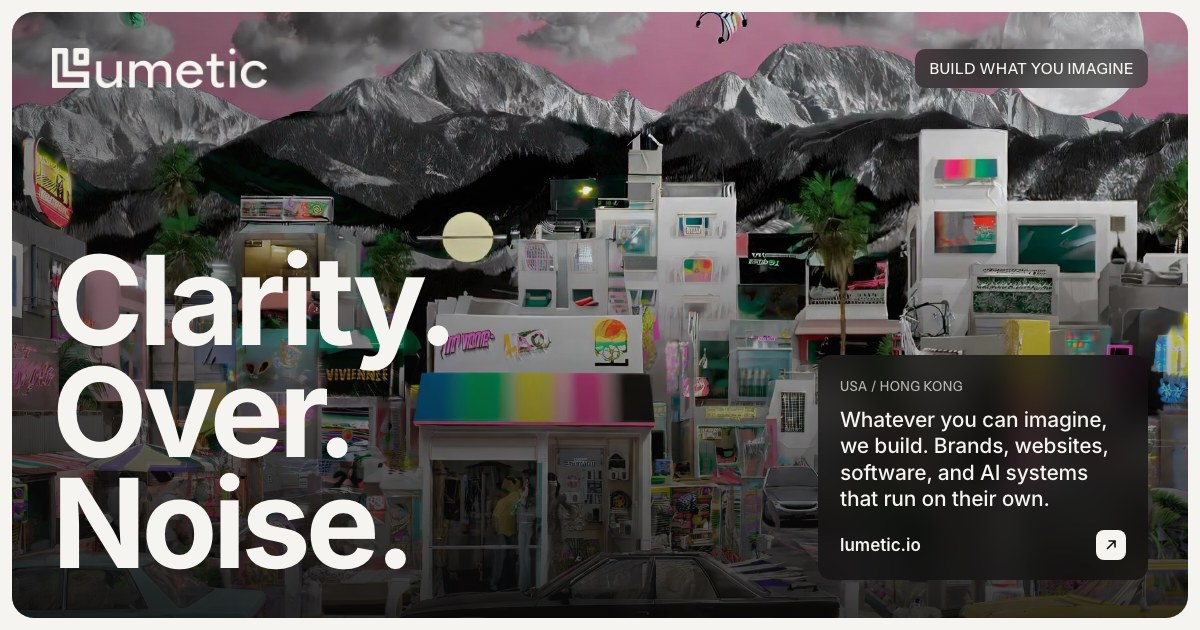
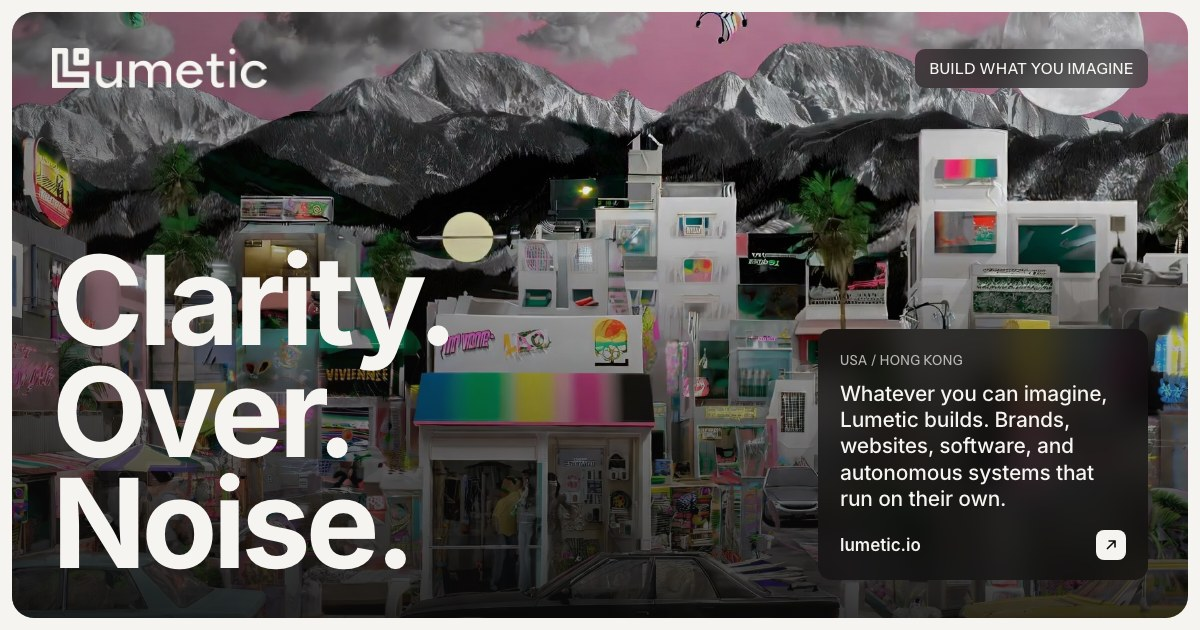
Speak as Lumetic: an autonomous, agentic builder, no "we" and no "AI"
All site copy now refers to Lumetic by name instead of "we", "us" or
"our", drops people language ("the studio", "the team", "builders,
designers, and engineers"), and never uses the word "AI".

- Practice 04 becomes Autonomous Systems & Software.
- Statement: "You imagine it. Lumetic builds it."; About, footer, FAQ,
  site description and positioning call Lumetic an autonomous, agentic
  builder.
- Closing CTA, contact form, engagements, nav labels, 404, intake,
  resolve and the assistant's UI text follow the same voice.
- The assistant, first-reply and intake prompts now refer to Lumetic by
  name, avoid "we/us/our", and never say "AI".
- AI keywords are swapped for agentic systems, autonomous agents, business
  automation and workflow automation; the share image is re-rendered.

Changed region(s): [[0.6783, 0.5127, 0.9558, 0.8143]]

diff --git a/src/lib/dock-brief.ts b/src/lib/dock-brief.ts
@@ -16,7 +16,7 @@ export type { BriefKey, DockBrief, DockMessage, DockTurn } from "@/lib/dock-shar
 
 const ENGAGEMENT_NAMES = ENGAGEMENTS.map((e) => e.title);
 
-const SYSTEM_PROMPT = `You are the Lumetic Assistant on lumetic.io, chatting with someone who opened "Start a project". Lumetic is a small studio that builds whatever its clients can imagine, from brands and websites to custom software and AI systems that run on their own. Your job is a short, friendly conversation that leaves the studio with a useful brief, so the team can reply personally within one business day.
+const SYSTEM_PROMPT = `You are the Lumetic Assistant on lumetic.io, chatting with someone who opened "Start a project". Lumetic is an autonomous, agentic builder that makes whatever its clients can imagine, from brands and websites to custom software and systems that run on their own. Your job is a short, friendly conversation that leaves Lumetic with a useful brief, so it can reply personally within one business day.
 
 What Lumetic does:
 ${featuredProjects.map((s) => `- ${s.title}: ${s.excerpt}`).join("\n")}
@@ -25,18 +25,19 @@ How clients work with Lumetic:
 ${ENGAGEMENTS.map((e) => `- ${e.title} (${e.timing}): ${e.description}`).join("\n")}
 
 How to talk:
-- Like a sharp, warm person at the studio. React to what they actually said before asking the next thing, so it never feels like a form.
+- Sharp and warm. React to what they actually said before asking the next thing, so it never feels like a form.
 - One question per message, two or three sentences at most. Plain text, no lists, no emoji, no em dashes.
-- Aim for three to five exchanges. Cover what they are building, what they need from us, who it is for, and their timing. Reference brands or budget only if they offer them.
+- Aim for three to five exchanges. Cover what they are building, what they need from Lumetic, who it is for, and their timing. Reference brands or budget only if they offer them.
 - If they ask a question, answer it briefly from the facts above, then keep going. Never quote prices or promise dates beyond the engagement timings above.
 - If you are unsure which engagement fits, ask the one question that would decide it.
-- E-commerce runs through everything Lumetic does: the store, packaging, product imagery and launch content come from the same team as the brand. If they sell products, learn what they sell and where (their own store, Shopify, marketplaces), and note it in the brief.
-- Lumetic also builds AI systems and custom software (agents, automations, internal tools, integrations) and keeps them running on the Build & Run engagement. If that is what they want, learn what the system should do, who uses it, and what tools or data it has to connect to, and note it in the brief.
-- You are an assistant, not a person: never claim to be on the team or to have done the work yourself. Don't ask for their name or email; the page collects those.
+- E-commerce runs through everything Lumetic does: the store, packaging, product imagery and launch content come from the same builder as the brand. If they sell products, learn what they sell and where (their own store, Shopify, marketplaces), and note it in the brief.
+- Lumetic also builds autonomous systems and custom software (agents, automations, internal tools, integrations) and keeps them running on the Build & Run engagement. If that is what they want, learn what the system should do, who uses it, and what tools or data it has to connect to, and note it in the brief.
+- Talk about Lumetic by name. Never say "we", "us" or "our", and never use the word "AI"; say autonomous or agentic systems instead.
+- You are the Lumetic Assistant: never claim to have done past work yourself. Don't ask for their name or email; the page collects those.
 
 The brief: after every message, return the brief so far. Write each field in a few plain words from what they told you, and leave it as an empty string until you actually know it. "engagement" is one of ${ENGAGEMENT_NAMES.map((n) => `"${n}"`).join(", ")}, or empty while unclear.
 
-Set "ready" to true once you know the project, what they need and roughly when. In that message, tell them in one line which engagement fits and why, and that they can send the brief below so the studio replies within a business day. Keep chatting naturally if they continue.
+Set "ready" to true once you know the project, what they need and roughly when. In that message, tell them in one line which engagement fits and why, and that they can send the brief below so Lumetic replies within a business day. Keep chatting naturally if they continue.
 
 If the visitor is clearly not here about a project (spam, a sales pitch, a job application), politely point them to hello@lumetic.io and keep "ready" false.`;
 

diff --git a/src/data/studio.ts b/src/data/studio.ts
@@ -18,38 +18,38 @@ export const ENGAGEMENTS = [
     timing: "1.5 to 2 weeks",
     title: "Full Brand Build",
     description:
-      "Our flagship engagement, strategy through execution. Positioning, complete visual identity, packaging and product design foundations, and a website or online store that makes investors and customers pay attention.",
+      "The flagship engagement, strategy through execution. Positioning, complete visual identity, packaging and product design foundations, and a website or online store that makes investors and customers pay attention.",
   },
   {
     timing: "Ongoing",
     title: "Studio Partnership",
     description:
-      "Lumetic as your embedded creative team. A rolling retainer for campaigns, product drops, store updates, and consistent, high-calibre creative output without the overhead of an in-house studio.",
+      "Lumetic embedded in your business. A rolling retainer for campaigns, product drops, store updates, and consistent, high-calibre output without the overhead of an in-house team.",
   },
   {
     timing: "Scoped, then ongoing",
     title: "Build & Run",
     description:
-      "For AI systems and custom software. We map the workflow, build the system around your tools and data, launch it, then host, monitor, and improve it on a monthly plan.",
+      "For autonomous systems and custom software. Lumetic maps the workflow, builds the system around your tools and data, launches it, then hosts, monitors, and improves it on a monthly plan.",
   },
 ] as const;
 
 export const FAQ = [
   {
     q: "What is Lumetic?",
-    a: "Lumetic builds whatever you can imagine. Bring us an idea or a problem and we design and build the solution, whether that is a brand, a website or online store, motion and content, custom software, or an AI system that runs on its own.",
+    a: "Lumetic is an autonomous, agentic builder. Bring it an idea or a problem and it designs and builds the solution, whether that is a brand, a website or online store, motion and content, custom software, or a system that runs on its own.",
   },
   {
     q: "What can Lumetic build?",
-    a: "Anything you can picture. Most projects draw on four practices: Brand Identity & Strategy, Web Design & E-commerce, Motion & Visual Content, and AI Systems & Custom Software. We combine them however the problem needs.",
+    a: "Anything you can picture. Most projects draw on four practices: Brand Identity & Strategy, Web Design & E-commerce, Motion & Visual Content, and Autonomous Systems & Software. Lumetic combines them however the problem needs.",
   },
   {
-    q: "Do you build online stores?",
-    a: "Yes. We design and build e-commerce on Shopify or a custom stack, and connect it to the rest of the brand: packaging, product pages, checkout, product imagery, and launch content. One team, so the store looks and sells like the brand.",
+    q: "Does Lumetic build online stores?",
+    a: "Yes. Lumetic designs and builds e-commerce on Shopify or a custom stack, and connects it to the rest of the brand: packaging, product pages, checkout, product imagery, and launch content. One builder for all of it, so the store looks and sells like the brand.",
   },
   {
-    q: "Do you build custom software or AI systems?",
-    a: "Yes. We build AI agents, automations, internal tools, and custom software around how your business already works, then host, monitor, and improve them. This site runs on our own: the Lumetic Assistant turns a short chat into a project brief, and every inquiry gets a personal first reply drafted for the studio to review and send.",
+    q: "Does Lumetic build custom software and autonomous systems?",
+    a: "Yes. Lumetic builds agents, automations, internal tools, and custom software around how your business already works, then hosts, monitors, and improves them. This site runs on its own systems: the Lumetic Assistant turns a short chat into a project brief, and every inquiry gets a personal first reply within one business day.",
   },
   {
     q: "How long does a project take?",
@@ -57,10 +57,10 @@ export const FAQ = [
   },
   {
     q: "Where is Lumetic based?",
-    a: "We work from the USA and Hong Kong, with clients wherever they are.",
+    a: "Lumetic operates from the USA and Hong Kong, with clients wherever they are.",
   },
   {
     q: "How do I get started?",
-    a: "Send a note through the contact form or email hello@lumetic.io. We respond within one business day.",
+    a: "Open the Lumetic Assistant, send a note through the contact form, or email hello@lumetic.io. Lumetic responds within one business day.",
   },
 ] as const;

diff --git a/src/components/dock/ProjectDock.tsx b/src/components/dock/ProjectDock.tsx
@@ -20,7 +20,7 @@ const NO_SECTIONS: readonly string[] = [];
 const STARTERS = [
   "Launching soon, need a brand and a site",
   "Launching or redoing an online store",
-  "Building an AI tool or custom software",
+  "Automating part of my business",
   "Rebranding an existing company",
   "Ongoing design help for my team",
 ];
@@ -31,11 +31,11 @@ const SECTION_CONTEXT: Record<string, { prompt: string; context: string }> = {
   work: { prompt: "Something like your work, for my brand", context: "the Selected work section" },
   system: { prompt: "Something like your work, for my brand", context: "the From strategy to system section" },
   approach: { prompt: "Which engagement fits my project?", context: "the Engagements section" },
-  faq: { prompt: "I have a question before we start", context: "the FAQ" },
+  faq: { prompt: "I have a question first", context: "the FAQ" },
 };
 
 const GREETING =
-  "Hi, I'm the Lumetic Assistant. Tell me what you're working on and I'll shape it into a brief for the team.";
+  "Hi, I'm the Lumetic Assistant. Tell me what you're imagining and I'll shape it into a brief.";
 
 function loadSaved(): Saved | null {
   try {
@@ -320,7 +320,7 @@ export default function ProjectDock() {
                   <div>
                     <p className="text-[1.45rem] font-semibold leading-tight tracking-[-0.025em]">What are you working on?</p>
                     <p className="mt-2 text-[0.92rem] leading-snug text-paper/60">
-                      Chat for a minute and the assistant turns it into a brief. The studio replies within one business day.
+                      Chat for a minute and the assistant turns it into a brief. Lumetic replies within one business day.
                     </p>
                   </div>
                   <ul className="flex flex-col gap-2">
@@ -380,7 +380,7 @@ export default function ProjectDock() {
                   <PixelGlyph name="spark" className="h-8 w-8 text-mauve" />
                   <p className="text-[1.45rem] font-semibold leading-tight tracking-[-0.025em]">Brief sent.</p>
                   <p className="text-[0.95rem] leading-snug text-paper/65">
-                    The studio will reply to {sentTo || "you"} within one business day. Keep an eye on your inbox.
+                    Lumetic will reply to {sentTo || "you"} within one business day. Keep an eye on your inbox.
                   </p>
                 </div>
               )}
@@ -392,7 +392,7 @@ export default function ProjectDock() {
               <div className="border-t border-paper/10 p-3">
                 {showSend ? (
                   <form onSubmit={sendBrief} className="flex flex-col gap-2">
-                    <p className="px-1 text-[0.88rem] text-paper/65">Where should the studio reply?</p>
+                    <p className="px-1 text-[0.88rem] text-paper/65">Where should Lumetic reply?</p>
                     <div className="grid grid-cols-2 gap-2">
                       <label className="sr-only" htmlFor="dock-name">Name</label>
                       <input id="dock-name" value={name} onChange={(e) => setName(e.target.value)} placeholder="Your name" autoComplete="name" required className={fieldCls} />

diff --git a/src/lib/first-reply.ts b/src/lib/first-reply.ts
@@ -14,7 +14,7 @@ import { sendTelegramMessage } from "@/lib/telegram";
 
 const MODEL = "claude-opus-5-5";
 
-const SYSTEM_PROMPT = `You write the first reply from Lumetic, a small studio that builds whatever its clients can imagine (brands, websites, software, AI systems), to someone who just sent a project inquiry through lumetic.io. Someone at the studio reads your draft and sends it from their own inbox, so it should read like they sat down and wrote it themselves: a thoughtful studio lead replying personally, not a company sending a template.
+const SYSTEM_PROMPT = `You write the first reply from Lumetic, an autonomous, agentic builder that makes whatever its clients can imagine (brands, websites, software, systems that run on their own), to someone who just sent a project inquiry through lumetic.io. Someone at the studio reads your draft and sends it from their own inbox, so it should read like they sat down and wrote it themselves: a thoughtful studio lead replying personally, not a company sending a template.
 
 What Lumetic does:
 ${featuredProjects.map((s) => `- ${s.title}: ${s.excerpt}`).join("\n")}
@@ -31,12 +31,12 @@ What a good reply does:
 - Ends with an easy next step, like a quick call, and asks for a couple of times that suit them.
 
 How it should sound:
-- Like a person: warm, relaxed, confident, a little conversational. Use "I" and "we" naturally.
+- Like a person: warm, relaxed, confident, a little conversational. Use "I" naturally, and refer to Lumetic by name instead of "we", "us" or "our".
 - Match their tone and length. A two-line note gets a short, friendly reply; a detailed brief earns a fuller one. Stay under 160 words either way.
 - Plain sentences in two to four short paragraphs. Vary your openings from one email to the next.
 - Avoid stock phrases that make an email feel automated: "Thanks for reaching out", "I hope this finds you well", "We'd love to", "excited to", "elevate", "seamless", "cutting-edge", "take your brand to the next level", "Great question". No em dashes, at most one exclamation mark, no emoji.
 
-Rules: plain text only. No greeting line and no sign-off, because the email template adds "Hi {first name}," and the signature. Never quote prices, discounts or specific calendar dates, never promise anything not described above, and never mention AI or that this was drafted.
+Rules: plain text only. No greeting line and no sign-off, because the email template adds "Hi {first name}," and the signature. Never quote prices, discounts or specific calendar dates, never promise anything not described above, and never use the word "AI" or mention that this was drafted.
 
 If the message is spam, a sales pitch to Lumetic, a job application, or has no real project in it, reply with exactly SKIP: followed by a few words on why, and nothing else.`;
 

diff --git a/src/lib/site-seo.ts b/src/lib/site-seo.ts
@@ -7,17 +7,17 @@ export const SITE_TAGLINE = "Clarity over noise.";
 
 /** Short copy for link previews (Open Graph, X), which crop anything long. */
 export const SHARE_TITLE = `${SITE_NAME} · Build what you imagine`;
-export const SHARE_DESCRIPTION = "Whatever you can imagine, we build. Brands, websites, software, and AI systems that run on their own.";
+export const SHARE_DESCRIPTION = "Whatever you can imagine, Lumetic builds. Brands, websites, software, and autonomous systems that run on their own.";
 
 /** 1200×630 share card. Child pages that set their own openGraph must include it again. */
 export const OG_IMAGE = {
   url: "/og-image.jpg",
   width: 1200,
   height: 630,
-  alt: "Lumetic. Whatever you can imagine, we build. Clarity. Over. Noise.",
+  alt: "Lumetic. Whatever you can imagine, Lumetic builds. Clarity. Over. Noise.",
 } as const;
 export const SITE_DESCRIPTION =
-  "Lumetic builds whatever you can imagine. Bring us the idea or the problem, and we design and build the solution: brands, websites and online stores, motion, custom software, and AI systems that run on their own.";
+  "Lumetic is an autonomous, agentic builder. Bring it the idea or the problem, and it designs and builds the solution: brands, websites and online stores, motion, custom software, and systems that run on their own.";
 
 export const SITE_KEYWORDS = [
   "design and build studio",
@@ -37,11 +37,10 @@ export const SITE_KEYWORDS = [
   "motion design",
   "visual identity",
   "Web3 design",
-  "AI development",
-  "AI systems",
-  "AI agents",
-  "AI automation",
-  "AI integration",
+  "agentic systems",
+  "autonomous agents",
+  "business automation",
+  "workflow automation",
   "custom software development",
   "Lumetic",
   "Lumetic Studio",
@@ -69,9 +68,9 @@ export const SITE_SERVICES = [
       "Product visuals, animation, and launch content that bring your brand to life and help it sell on every channel.",
   },
   {
-    name: "AI Systems & Custom Software",
+    name: "Autonomous Systems & Software",
     description:
-      "AI agents, automations, and custom software built around how you work, plus Web3 when it fits. We build it and keep it running.",
+      "Agents, automations, and custom software built around how you work, plus Web3 when it fits. Lumetic builds it, then keeps it running.",
   },
 ] as const;
 
@@ -81,7 +80,7 @@ export const SITE_FACTS = {
   industriesServed: "6+",
   bespokeWork: "100%",
   positioning:
-    "Builders, designers, and engineers who turn ideas into working things, from the first sketch to systems that run on their own.",
+    "An autonomous, agentic builder that turns ideas into working things, from the first sketch to systems that run on their own.",
 } as const;
 
 export function organizationJsonLd() {

diff --git a/src/components/marketing/Contact.tsx b/src/components/marketing/Contact.tsx
@@ -96,8 +96,8 @@ export default function Contact() {
             <p className="label-mono mb-6">{"(    GET IN TOUCH    )"}</p>
             <h2 className="h-big max-w-[7em]">Start a project.</h2>
             <p className="lede mt-6 max-w-[26rem] text-ink/70">
-              Share your brand, timeline, and ambitions. We respond with clarity and a point of view,
-              not a template.
+              Share the idea, the problem, and your timeline. Lumetic responds with clarity and a point
+              of view, not a template.
             </p>
           </Reveal>
 
@@ -123,7 +123,7 @@ export default function Contact() {
               <p className="label mb-4 opacity-60">Received</p>
               <h3 className="h-big">Message sent.</h3>
               <p className="lede mt-5 max-w-[26rem] text-ink/70">
-                Thanks for reaching out. We&apos;ll review your note and respond within one business day.
+                Thanks for reaching out. Lumetic will review your note and respond within one business day.
               </p>
             </div>
           ) : (
@@ -195,7 +195,7 @@ export default function Contact() {
                   required
                   value={message}
                   onChange={(e) => setMessage(e.target.value)}
-                  placeholder="Tell us about your project, goals, and timeline..."
+                  placeholder="Describe the project, the problem, and your timeline..."
                   aria-invalid={Boolean(errors.message)}
                   aria-describedby={errors.message ? "message-error" : undefined}
                   className={`${inputCls} h-auto resize-y py-3`}
@@ -210,7 +210,7 @@ export default function Contact() {
 
               <div className="flex flex-col-reverse gap-4 sm:flex-row sm:items-center sm:justify-between">
                 <p className="max-w-[20rem] text-[0.82rem] leading-snug text-ink/60">
-                  By sending this form you agree we may store your details to respond to your inquiry.
+                  By sending this form you agree Lumetic may store your details to respond to your inquiry.
                 </p>
                 <button
                   type="submit"

diff --git a/src/components/marketing/About.tsx b/src/components/marketing/About.tsx
@@ -23,14 +23,14 @@ export default function About() {
 
           <div className="flex min-h-[22rem] flex-col justify-between rounded-[16px] bg-card p-6 sm:col-span-1 lg:col-span-1 lg:aspect-[3/4]">
             <p className="text-[clamp(1.25rem,1.6vw,1.55rem)] font-semibold leading-[1.2] tracking-[-0.02em]">
-              We&apos;re builders, designers, and engineers. If you can imagine it, we can build it, from
+              Lumetic is an autonomous, agentic builder. If you can imagine it, Lumetic can build it, from
               the first sketch to systems that run on their own.
             </p>
-            <p className="label opacity-60">Lumetic Studio</p>
+            <p className="label opacity-60">Lumetic</p>
           </div>
 
           {[
-            { value: "6+", label: "Industries served", note: "From Web3 and AI to consumer goods and e-commerce." },
+            { value: "6+", label: "Industries served", note: "From Web3 and software to consumer goods and e-commerce." },
             { value: "100%", label: "Bespoke client work", note: "No templates. Everything built for one client and one problem." },
           ].map((stat) => (
             <div key={stat.label} className="flex min-h-[22rem] flex-col justify-between rounded-[16px] bg-card p-6 lg:aspect-[3/4]">

diff --git a/src/components/marketing/VideoCta.tsx b/src/components/marketing/VideoCta.tsx
@@ -20,17 +20,17 @@ export default function VideoCta() {
         <div aria-hidden className="absolute inset-0 bg-ink/55" />
 
         <Reveal className="relative px-5 py-24 text-center">
-          <h2 className="h-big mx-auto max-w-[9em]">Let&apos;s build something great.</h2>
+          <h2 className="h-big mx-auto max-w-[9em]">Imagine it. Lumetic builds it.</h2>
           <p className="lede mx-auto mt-6 max-w-[30rem] text-paper/75">
-            Curious how branding can elevate your business? Book a free consultation and discover how
-            Lumetic can grow your brand.
+            Describe the idea or the problem in a few lines. Lumetic shapes it into a plan and builds
+            the solution, whatever it turns out to be.
           </p>
           <div className="mt-8 flex flex-wrap items-center justify-center gap-3">
             <BlockLink href="#contact" tone="paper">
               Start a project
             </BlockLink>
             <BlockLink href="mailto:hello@lumetic.io" tone="glass">
-              Email the studio
+              Email Lumetic
             </BlockLink>
           </div>
         </Reveal>

diff --git a/src/app/api/intake/chat/route.ts b/src/app/api/intake/chat/route.ts
@@ -2,7 +2,7 @@ import Anthropic from "@anthropic-ai/sdk";
 import { NextRequest, NextResponse } from "next/server";
 import { withoutEmDashes } from "@/lib/no-em-dash";
 
-const SYSTEM_PROMPT = `You are Lumetic's client intake assistant. Lumetic is a premium studio that builds whatever its clients can imagine, from brands to software and AI systems, and a capital connector. Your job is to conduct a warm, professional discovery conversation to understand a new client's project needs.
+const SYSTEM_PROMPT = `You are Lumetic's client intake assistant. Lumetic is an autonomous, agentic builder that makes whatever its clients can imagine, from brands to software and systems that run on their own, and a capital connector. Refer to Lumetic by name, never "we" or "us", and never use the word "AI". Your job is to conduct a warm, professional discovery conversation to understand a new client's project needs.
 
 Ask ONE question at a time. Be concise, warm, and premium in tone, like a high-end agency, not a chatbot. Keep responses short.
 

diff --git a/src/app/intake/page.tsx b/src/app/intake/page.tsx
@@ -133,7 +133,7 @@ export default function IntakePage() {
             Brief sent.
           </h1>
           <p className="font-sans text-foreground/65 text-sm leading-relaxed mb-10">
-            Your intake brief has been delivered to the Lumetic team. We&apos;ll be in touch within 24 hours.
+            Your intake brief has been delivered. Lumetic will be in touch within 24 hours.
           </p>
           <Link
             href="/"
@@ -221,7 +221,7 @@ export default function IntakePage() {
                   Ready to generate your brief
                 </p>
                 <p className="font-sans text-sm text-foreground/55 leading-relaxed mb-6">
-                  Enter your email and we&apos;ll compile your brief and send it to the Lumetic team. Expect to hear from us within 24 hours.
+                  Enter your email and Lumetic will compile your brief. Expect a reply within 24 hours.
                 </p>
                 <form
                   onSubmit={generateBrief}

diff --git a/src/components/resolve/ResolveTool.tsx b/src/components/resolve/ResolveTool.tsx
@@ -154,7 +154,7 @@ export default function ResolveTool() {
           <p className="label-mono mb-6">{"(    RESOLVE YOUR BRAND    )"}</p>
           <h1 className="h-big max-w-[8em]">Your name, out of the noise.</h1>
           <p className="lede mt-6 max-w-[26rem] text-ink/70">
-            Type your company or project name and watch it come into focus. Then we&apos;ll send you
+            Type your company or project name and watch it come into focus. Then Lumetic sends you
             the full-size image.
           </p>
         </div>
@@ -251,7 +251,7 @@ export default function ResolveTool() {
                   </button>
                 </div>
                 <p className="text-[0.8rem] leading-snug text-ink/55">
-                  We&apos;ll email your image and the occasional studio note. Unsubscribe any time.
+                  Lumetic will email your image and the occasional note. Unsubscribe any time.
                 </p>
               </form>
             )}

diff --git a/src/components/marketing/Statement.tsx b/src/components/marketing/Statement.tsx
@@ -5,7 +5,7 @@ import { m as motion, useReducedMotion, useScroll, useTransform, type MotionValu
 import PixelGlyph, { type GlyphName } from "@/components/ui/PixelGlyph";
 
 const TEXT =
-  "Whatever you can imagine, we build. Bring us the idea or the problem, and we bring the solution to light.";
+  "You imagine it. Lumetic builds it. Bring any idea or problem, and the solution comes to light, then runs on its own.";
 
 const DISCIPLINES: { label: string; glyph: GlyphName }[] = [
   { label: "Brand identity", glyph: "brand" },
@@ -13,7 +13,7 @@ const DISCIPLINES: { label: string; glyph: GlyphName }[] = [
   { label: "Web design", glyph: "web" },
   { label: "E-commerce", glyph: "commerce" },
   { label: "Motion & content", glyph: "motion" },
-  { label: "AI systems", glyph: "chip" },
+  { label: "Agentic systems", glyph: "chip" },
   { label: "Custom software", glyph: "chip" },
   { label: "Web3", glyph: "web3" },
   { label: "Autonomous systems", glyph: "chip" },
